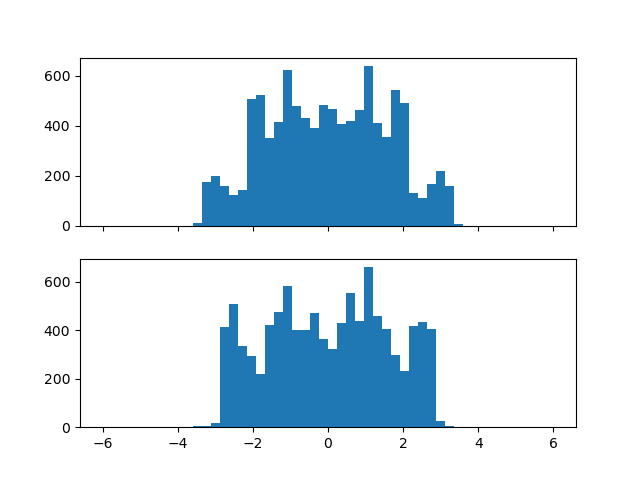
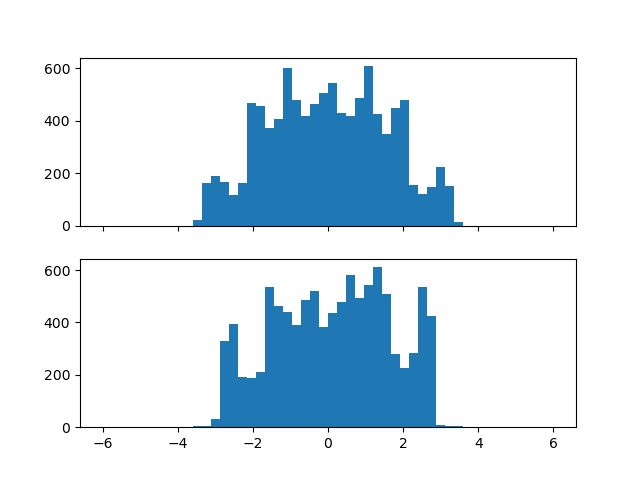
generic commit

diff --git a/scripts/transport/c_transport.py b/scripts/transport/c_transport.py
@@ -370,8 +370,9 @@ def train_cond_transport(ref_gen, target_gen, params, N = 1000, n_iter = 1001, p
     ref_sample = ref_gen(N)
     target_sample = target_gen(N)
 
-    test_sample = ref_gen(5 * N)
-    test_target_sample = target_gen(5 * N)
+    N_test = min(10 * N, 15000)
+    test_sample = ref_gen(N_test)
+    test_target_sample = target_gen(N_test)
 
     if len(process_funcs):
         forward = process_funcs[0]
@@ -471,8 +472,9 @@ def conditional_transport_exp(ref_gen, target_gen, N = 1000, n_iter = 1001, slic
      idx_dict = {key: get_idx_tensors(val) for key,val in idx_dict.items()}
      trained_models = train_cond_transport(ref_gen, target_gen, exp_params, N, n_iter,
                                            process_funcs, cond_model_trainer, idx_dict = idx_dict)
-     target_sample = target_gen(10 * N)
-     ref_sample = ref_gen(10 * N)
+     N_test = min(10 * N, 15000)
+     target_sample = target_gen(N_test)
+     ref_sample = ref_gen(N_test)
 
      if not skip_base:
         gen_sample = compositional_gen(trained_models, ref_sample, idx_dict)
@@ -480,7 +482,7 @@ def conditional_transport_exp(ref_gen, target_gen, N = 1000, n_iter = 1001, slic
          gen_sample = conditional_gen(trained_models, ref_sample, target_sample, idx_dict, skip_idx)
      if traj_hist:
         sode_hist(gen_sample, save_dir, 'gen_traj_hist')
-        sode_hist(target_gen(10*N), save_dir, 'traj_hist')
+        sode_hist(target_gen(N_test), save_dir, 'traj_hist')
 
      hist_idx = 1
      if len(slice_vals):
@@ -551,7 +553,7 @@ def run():
     target_gen = mgan2
     range = [[-2.5, 2.5], [-1.05, 1.05]]
 
-    conditional_transport_exp(ref_gen, target_gen, N=10000, n_iter=10001, slice_vals=[-1,0,1], vmax=2,
+    conditional_transport_exp(ref_gen, target_gen, N=9000, n_iter=9001, slice_vals=[-1,0,1], vmax=2,
                               exp_name='mgan2_composed2', plt_range=range, slice_range=[-1.5, 1.5],
                               process_funcs=[], skip_base=True, traj_hist=True)
 
